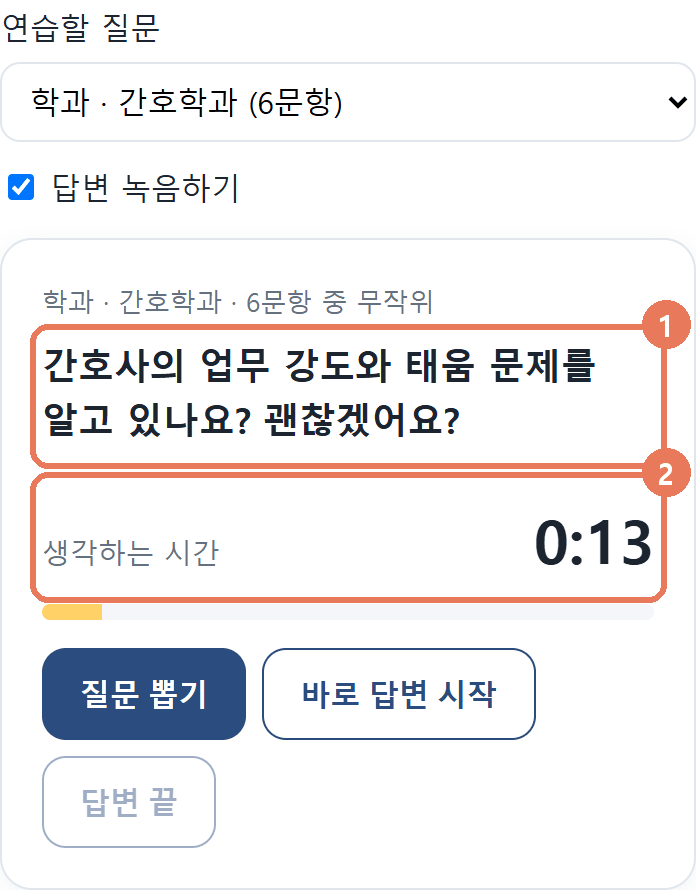
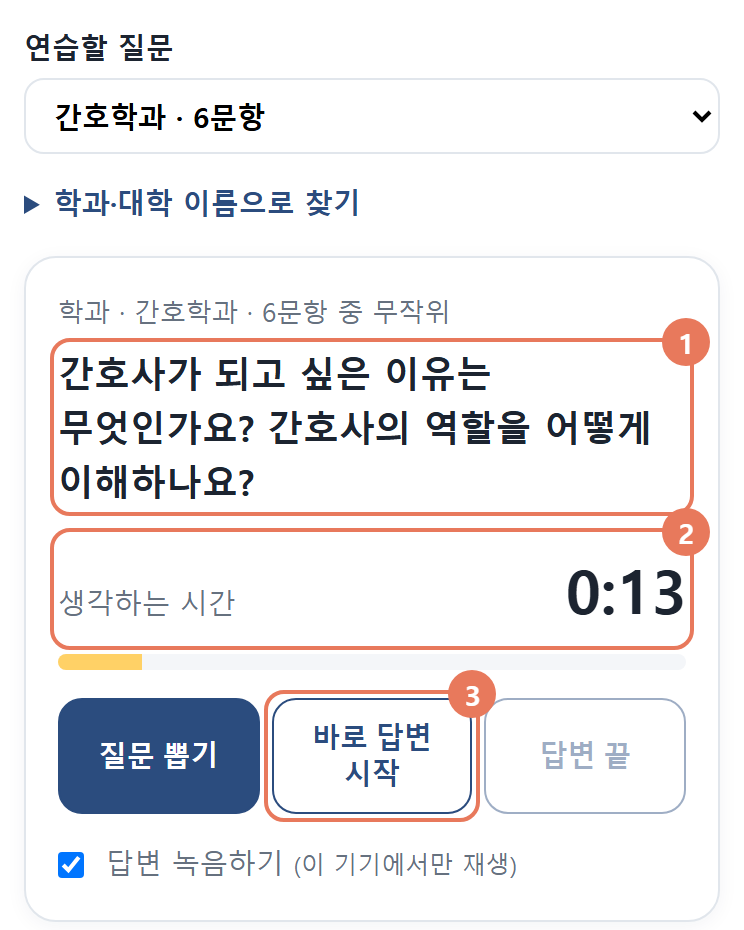
모의면접 사용법 그림 4장 새 화면으로 다시 캡처(찾기 칸·카드 안 녹음 체크·답변한 시간 표시), 설명 문구 갱신, 녹음 체크 줄바꿈 깨짐 수정

diff --git a/site/templates/practice.html b/site/templates/practice.html
@@ -24,7 +24,7 @@
       <button class="btn ghost" id="prStart" type="button" disabled>바로 답변 시작</button>
       <button class="btn ghost" id="prStop" type="button" disabled>답변 끝</button>
     </div>
-    <label class="pr-opt"><input type="checkbox" id="prRec"> 답변 녹음하기 <small>(이 기기에서만 재생 · 서버 전송 없음)</small></label>
+    <label class="pr-opt"><input type="checkbox" id="prRec"> 답변 녹음하기 <small>(이 기기에서만 재생)</small></label>
     <audio id="prAudio" controls hidden></audio>
     <details class="pr-ex" id="prExWrap" hidden><summary>답변 예시와 주의할 점 보기 (답한 뒤에 보세요)</summary><div id="prEx"></div></details>
   </div>
@@ -34,14 +34,14 @@
 <h2 id="howto">그림으로 보는 사용법</h2>
 <p>휴대폰과 PC 모두 같은 순서입니다. 그림의 주황색 번호를 따라 눌러 보세요.</p>
 <div class="howto">
-  <figure><img src="/static/img/practice/step1.png" alt="연습할 질문 고르기, 답변 녹음하기 체크, 질문 뽑기 버튼" width="348" height="445" loading="lazy">
-    <figcaption><b>1단계 · 준비</b><br>① <b>연습할 질문</b>에서 내 학과나 지원 대학을 고릅니다. 대학 페이지의 "질문으로 연습" 버튼으로 들어오면 이미 골라져 있습니다.<br>② 내 목소리를 다시 듣고 싶으면 <b>답변 녹음하기</b>에 체크합니다.<br>③ <b>질문 뽑기</b>를 누르면 시작합니다.</figcaption></figure>
-  <figure><img src="/static/img/practice/step2.png" alt="질문이 나오고 생각하는 시간 15초가 흐르는 화면" width="348" height="445" loading="lazy">
-    <figcaption><b>2단계 · 생각 15초</b><br>① 질문이 무작위로 나옵니다.<br>② <b>생각하는 시간</b> 15초가 줄어듭니다. 이때 결론 한 문장만 정하세요. 준비가 끝났으면 <b>바로 답변 시작</b>을 눌러도 됩니다. 15초가 지나면 자동으로 답변 시간이 시작됩니다.</figcaption></figure>
-  <figure><img src="/static/img/practice/step3.png" alt="답변 중, 녹음 중 표시와 60초 타이머, 답변 끝 버튼" width="348" height="445" loading="lazy">
+  <figure><img src="/static/img/practice/step1.png" alt="연습할 질문 고르기와 학과·대학 이름으로 찾기, 질문 뽑기 버튼, 답변 녹음하기 체크" width="372" height="431" loading="lazy">
+    <figcaption><b>1단계 · 준비</b><br>① <b>연습할 질문</b>에서 내 학과나 지원 대학을 고릅니다. 목록이 길면 <b>학과·대학 이름으로 찾기</b>를 눌러 "간호", "컴공", "인제대"처럼 검색하세요. 대학 페이지나 블로그 글의 연습 버튼으로 들어오면 이미 골라져 있습니다.<br>② 내 목소리를 다시 듣고 싶으면 카드 아래 <b>답변 녹음하기</b>에 체크합니다.<br>③ <b>질문 뽑기</b>를 누르면 시작합니다.</figcaption></figure>
+  <figure><img src="/static/img/practice/step2.png" alt="질문이 나오고 생각하는 시간 15초가 흐르는 화면" width="372" height="464" loading="lazy">
+    <figcaption><b>2단계 · 생각 15초</b><br>① 질문이 무작위로 나옵니다.<br>② <b>생각하는 시간</b> 15초가 줄어듭니다. 이때 결론 한 문장만 정하세요.<br>③ 준비가 끝났으면 <b>바로 답변 시작</b>을 눌러도 됩니다. 15초가 지나면 자동으로 답변 시간이 시작됩니다.</figcaption></figure>
+  <figure><img src="/static/img/practice/step3.png" alt="답변 중, 녹음 중 표시와 60초 타이머, 답변 끝 버튼" width="372" height="464" loading="lazy">
     <figcaption><b>3단계 · 답변 60초</b><br>① <b>답변 중 · ● 녹음 중</b>이 보이면 소리 내어 답합니다. 처음 한 번은 브라우저가 마이크 사용을 물어보니 <b>허용</b>을 누르세요.<br>② 다 말했으면 <b>답변 끝</b>을 누릅니다. 60초가 지나면 자동으로 끝납니다.</figcaption></figure>
-  <figure><img src="/static/img/practice/step4.png" alt="녹음 재생 막대와 답변 예시 보기" width="348" height="587" loading="lazy">
-    <figcaption><b>4단계 · 다시 듣고 비교</b><br>① ▶를 눌러 내 답변을 들어 봅니다. 60초를 넘겼는지, "음…"이 몇 번 나왔는지, 학교 이름처럼 블라인드 면접에서 말하면 안 되는 말이 있었는지 확인하세요.<br>② <b>답변 예시와 주의할 점 보기</b>를 열어 내 답과 비교합니다. 그다음 <b>질문 뽑기</b>로 다음 질문을 연습합니다.</figcaption></figure>
+  <figure><img src="/static/img/practice/step4.png" alt="답변한 시간, 녹음 재생 막대, 답변 예시 보기" width="372" height="606" loading="lazy">
+    <figcaption><b>4단계 · 다시 듣고 비교</b><br>① <b>답변한 시간</b>이 나옵니다. 60초 안에 끝냈는지, 너무 짧지 않은지 확인하세요.<br>② ▶를 눌러 내 답변을 들어 봅니다. "음…"이 몇 번 나왔는지, 학교 이름처럼 블라인드 면접에서 말하면 안 되는 말이 있었는지 확인하세요.<br>③ <b>답변 예시와 주의할 점 보기</b>를 열어 내 답과 비교합니다. 그다음 <b>질문 뽑기</b>로 다음 질문을 연습합니다.</figcaption></figure>
 </div>
 <h3>녹음이 안 될 때</h3>
 <ul>

diff --git a/site/static/site.css b/site/static/site.css
@@ -228,7 +228,8 @@ details.more summary{cursor:pointer;color:var(--muted);font-size:14px}
 .pr-btns{display:flex;flex-wrap:wrap;gap:8px}
 .pr-btns .btn[disabled]{opacity:.45}
 #prAudio{width:100%;margin-top:12px}
-.pr-card .pr-opt{display:flex;align-items:center;gap:6px;margin:12px 0 0;font-size:14px;color:var(--muted)}
+.pr-card .pr-opt{display:block;margin:12px 0 0;font-size:14px;color:var(--muted)}
+.pr-card .pr-opt input{margin:0 6px 0 0;vertical-align:-2px}.pr-card .pr-opt small{font-size:12px}
 .pr-ex{margin-top:12px}
 .pr-ex summary{cursor:pointer;font-weight:600;color:var(--accent)}
 @media (max-width:560px){.top .in{gap:10px}.top nav{overflow-x:auto;white-space:nowrap;-webkit-overflow-scrolling:touch;scrollbar-width:none}.top nav::-webkit-scrollbar{display:none}.yrow dl{grid-template-columns:72px 1fr}.pr-q{font-size:18px}}
